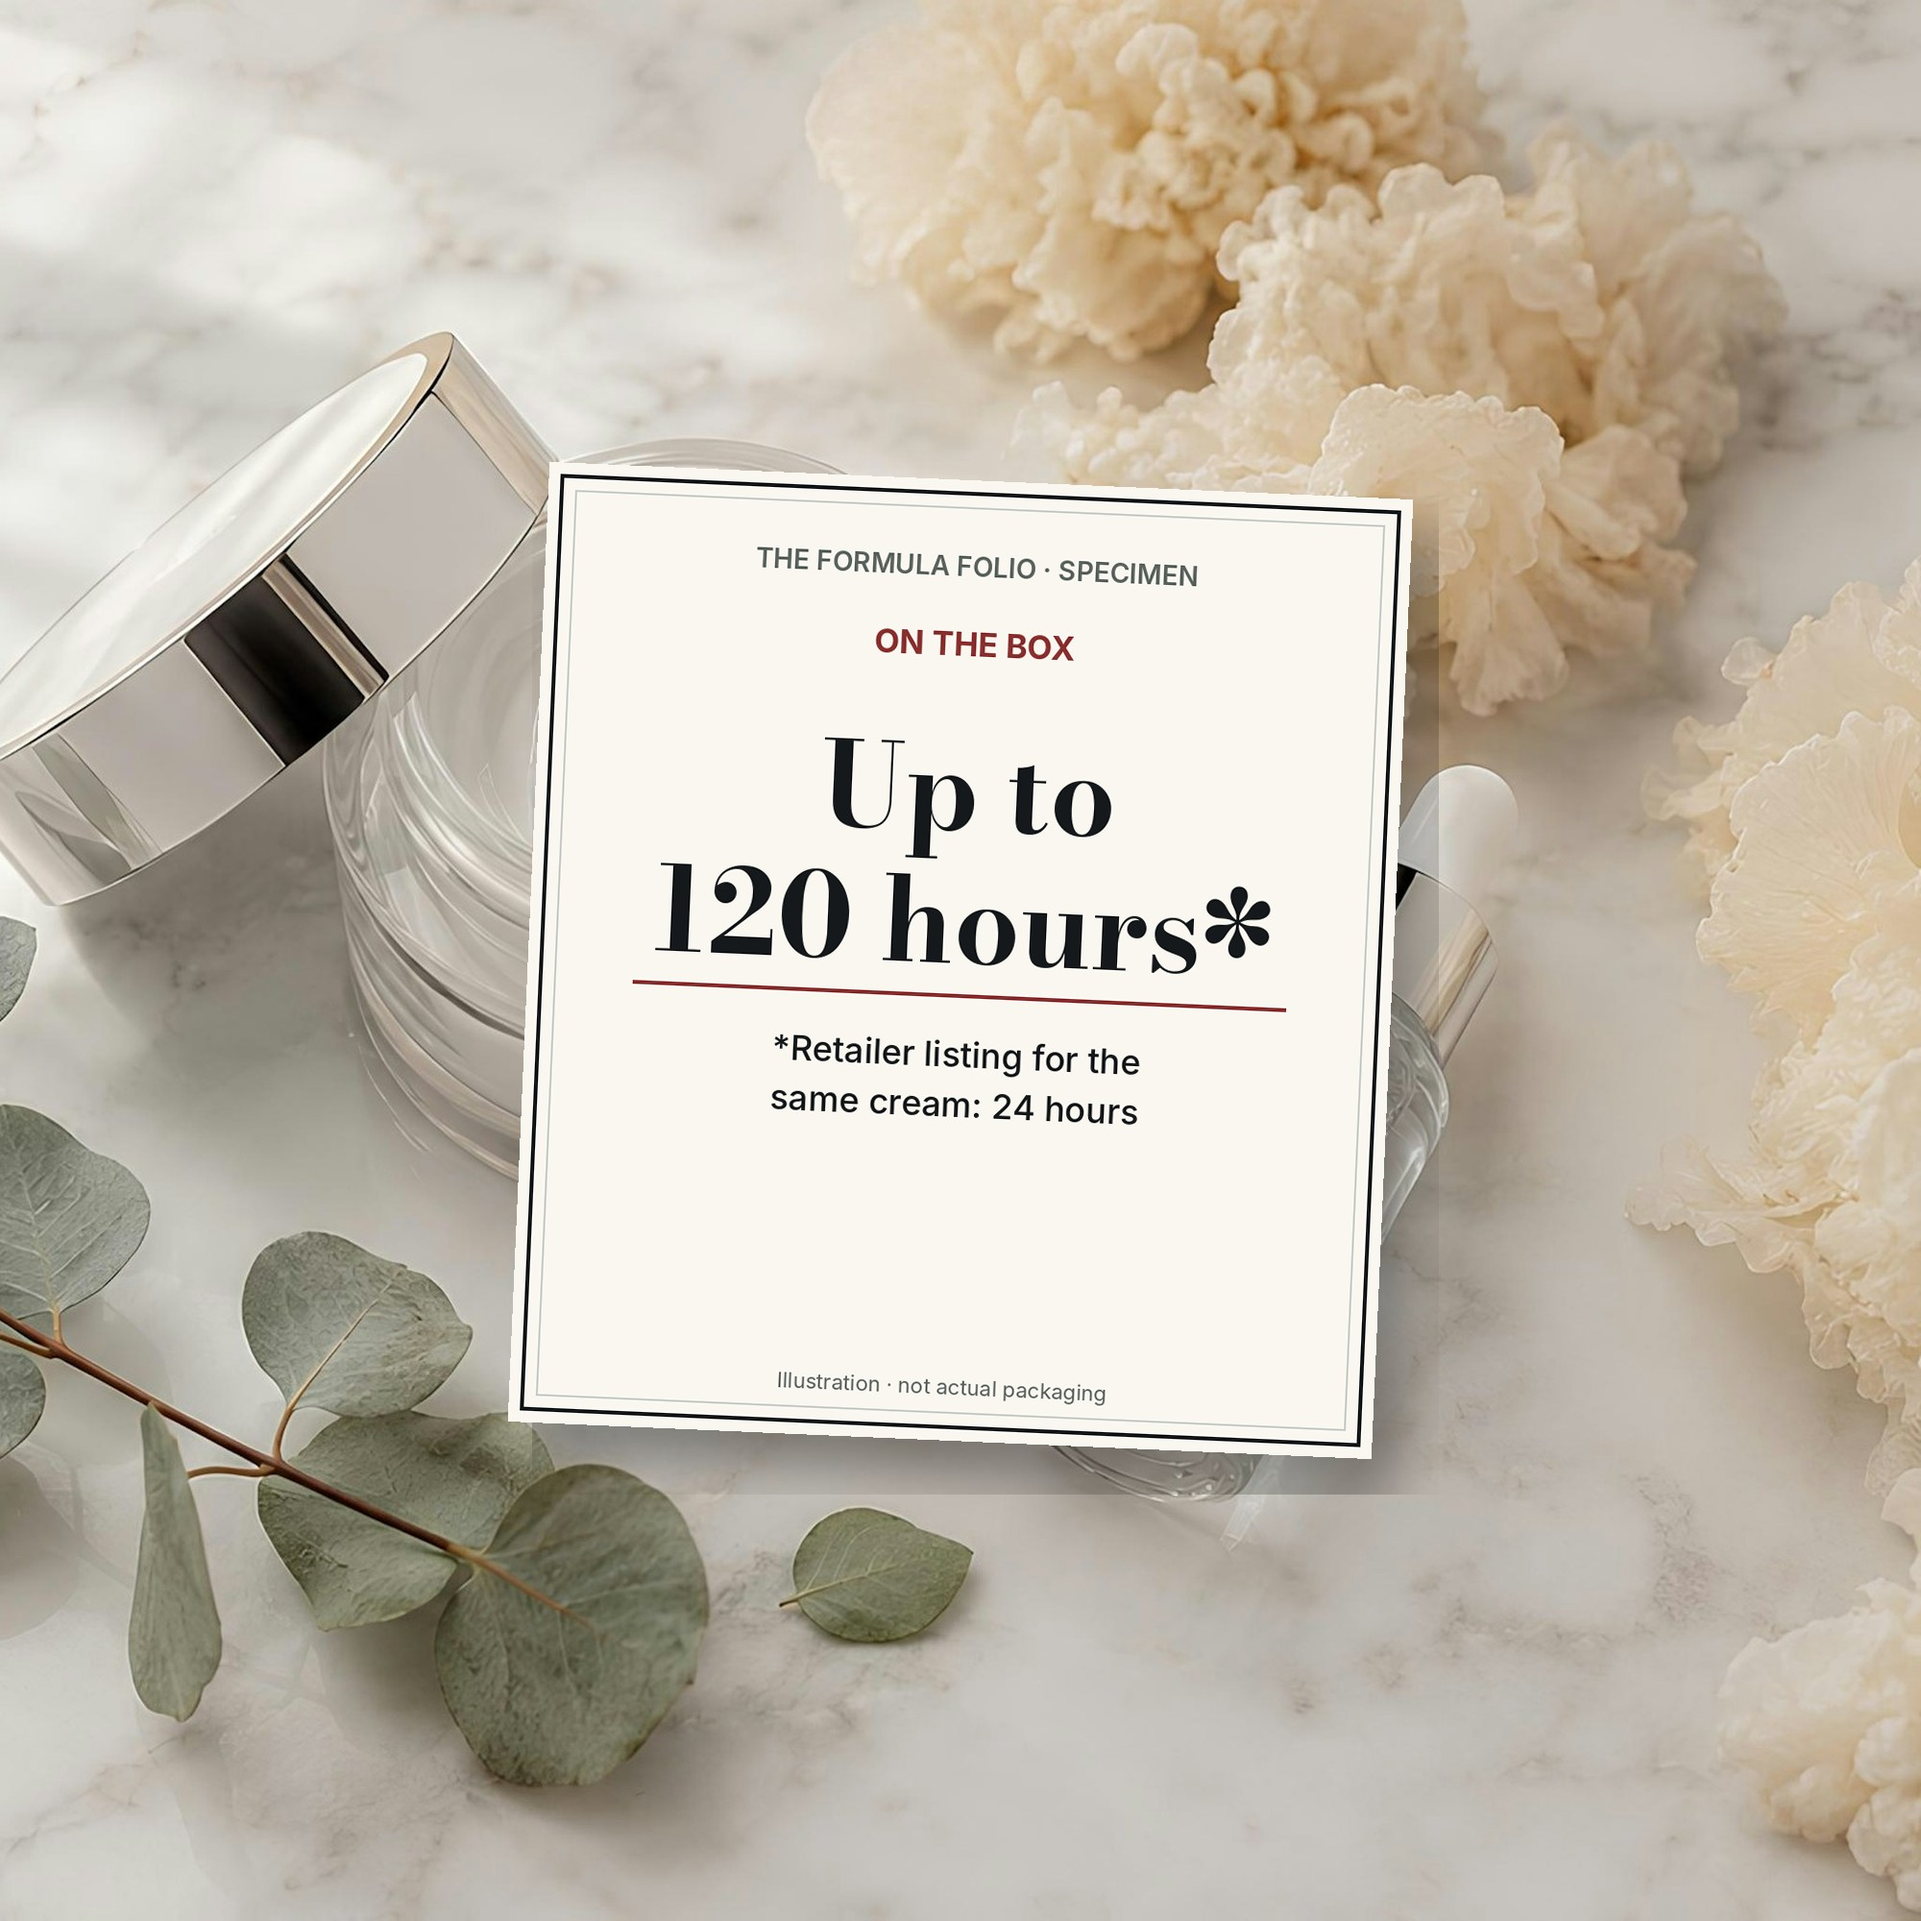
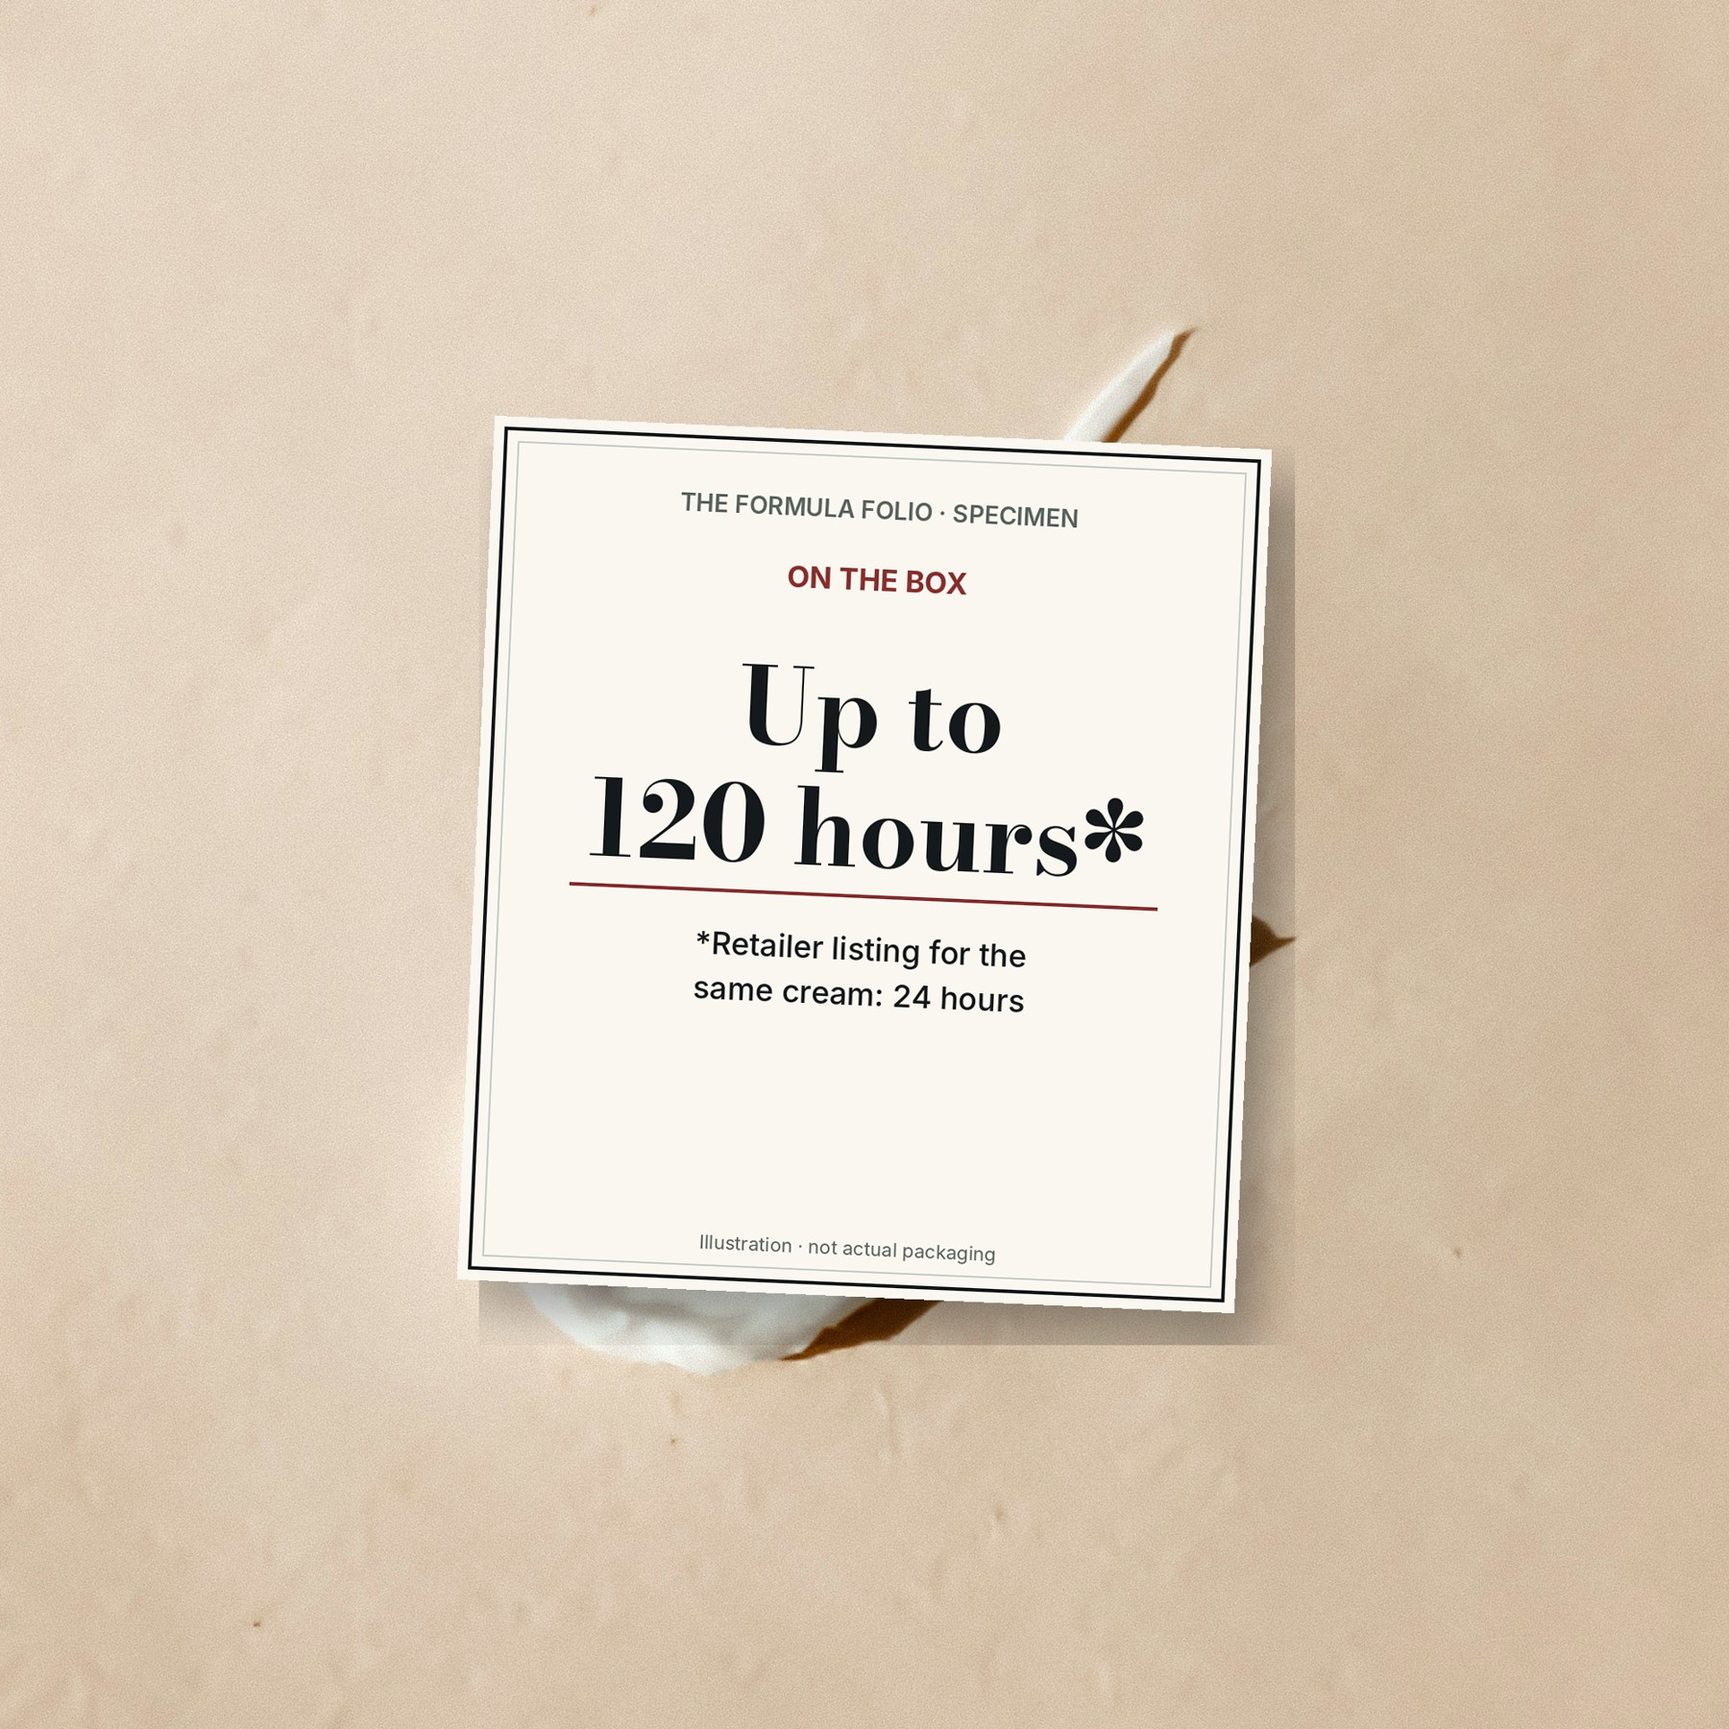
Remove jar photo (visible third-party label); rebuild 120h specimen on swatch
Claude-Session: https://claude.ai/code/session_0142MC4rUiQDDzaYexTUgiRG

diff --git a/render/photos/INDEX.md b/render/photos/INDEX.md
@@ -8,3 +8,4 @@ patchglove/patcharm: skin patch test · reader: woman with magnifier · research
 shelf: product shelf · sunarm/sunface: sunlight on skin · swatch: cream swatch · young1-3: younger women portraits
 patentart: Folio patent card over serum · spec_120h / spec_33: Folio specimen claim cards · ai_onepct/ai_oxid: AI labeled bottles
 Removed: loupe (bare-shoulder close-up trips the nudity check). Avoid skin close-ups that show shoulders/chest.
+Removed: jar (its label reads WHITENING CREAM). Check every photo for visible third-party labels before use.
